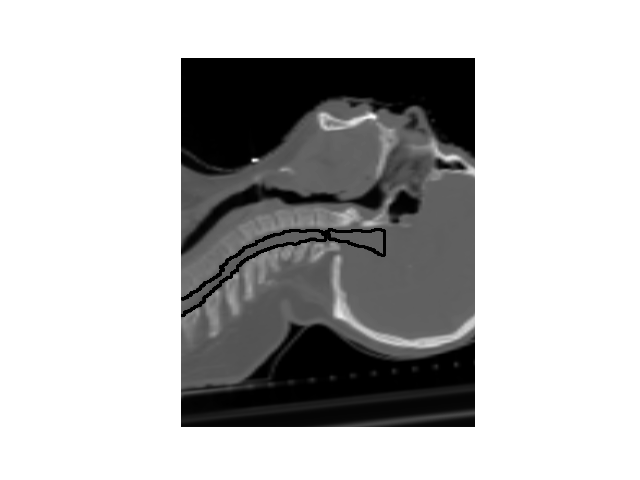
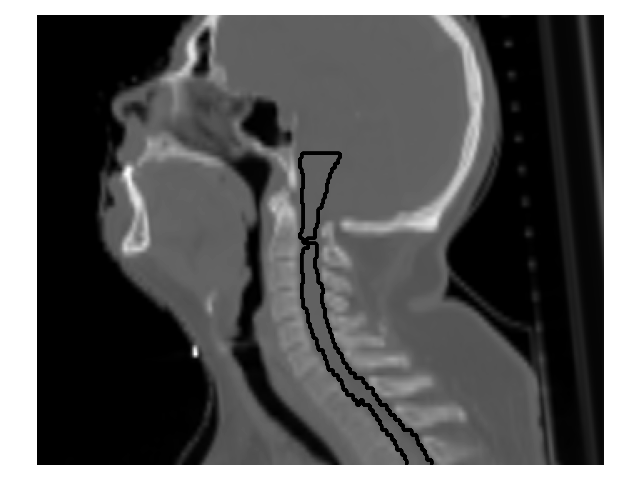
image frames removed

diff --git a/Python Code/CW.py b/Python Code/CW.py
@@ -19,11 +19,16 @@ def import_double_orientate(file):
     img = skimage.io.imread(file)
     file1 = np.double(img)
     # transpose - switch x and y dimensions
-    transpose_image = np.transpose(file1)
+    #transpose_image = np.transpose(file1)
     # flip along second dimension - top to bottom
-    flipped_image = np.flip(transpose_image, 1)
-    return flipped_image
+    #flipped_image = np.flip(transpose_image, 1)
+    return file1
 
+#%%
+# test import double orientate
+test_source_img = import_double_orientate('C:/Users/indie/Documents/GitHub/IPMI_CW/Data (part 1)/head_and_neck_images/test/test_1.png')
+plt.figure()
+plt.imshow(test_source_img)
 #%%
 # write overlay function
 def import_overlay(filepath, brain, spine, image):
@@ -46,20 +51,28 @@ def import_overlay(filepath, brain, spine, image):
     mi2, ma2 = np.floor(np.nanmin(spine_mask)), np.ceil(np.nanmax(spine_mask))
     levels2 = np.arange(mi2, ma2+2, 2)
 
-    ax_im = plt.figure(figsize=(12,12), frameon=False)
+    ax_im = plt.figure(frameon=False)
     ax_im, ax = plt.subplots()
     ax.set_axis_off()
     ax_im.add_axes(ax)
+    ax_im.tight_layout()
     ax.imshow(source_img, cmap='gray')
     ax.contour(brain_mask, levels=levels, linewidths=1, colors=['black'])
     ax.contour(spine_mask, levels=levels2, linewidths=1, colors=['black'])
     #note to later indie, ax_im cant be shown by dispimage because it is a figure not an array
-
+    #figsize=(12,12), 
     array_img = np.asarray(ax_im)
-
+    
     plt.savefig(image)
 
     return array_img
+
+#%%
+# test overlay function
+test_data_str = ("C:/Users/indie/Documents/GitHub/IPMI_CW/Data (part 1)/head_and_neck_images/test/")
+
+test_run_1 = import_overlay(test_data_str, 'test_1_BRAIN_STEM.png', 'test_1_SPINAL_CORD.png', 'test_1.png')
+
 
 #%%
 # test data
@@ -112,10 +125,17 @@ def import_gray(file):
     img = skimage.io.imread(file, as_gray=True)
     file1 = np.double(img)
     # transpose - switch x and y dimensions
-    transpose_image = np.transpose(file1)
+    #transpose_image = np.transpose(file1)
     # flip along second dimension - top to bottom
-    flipped_image = np.flip(transpose_image, 1)
-    return flipped_image
+    #flipped_image = np.flip(file1,0)
+    return file1
+
+#%%
+# test import gray function
+test_run = import_gray('atlas_1.png')
+plt.figure(frameon=False)
+plt.imshow(test_run)
+plt.tight_layout()
 #%%
 from demonsReg import demonsReg
 
